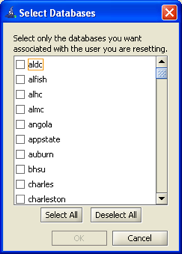
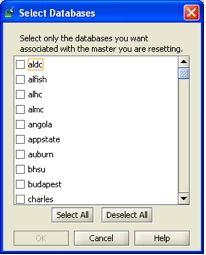
git-svn-id: https://svn.code.sf.net/p/specify/code/trunk/Specify@9712 ce9bf4bf-376f-1848-a496-a1c9fe3b1a39

diff --git a/help/SpecifyHelp/Security/Security_Wizard.html b/help/SpecifyHelp/Security/Security_Wizard.html
@@ -92,7 +92,7 @@ username and password, the Security Wizard will allow you to reset them.</p>
     <a name="reset_master" id="reset_master"></a>
     <p><u><strong>Reset the Master Username and Password</strong></u></p>
     <p>Click the <i><b>Reset your Master Username and Password</b></i> button to reset the Master credentials. A dialog will appear listing ALL the Specify databases available. It is important to note that this is a list of ALL the databases.</p>
-    <p align="center"><img src="../../images/securitywizard_4.png" width="183" height="255" /></p>
+    <p align="center"><img src="../../images/securitywizard_4.png"  /></p>
     <p align="center" class="imgcaption">Specify Database List</p>
     <blockquote>
       <p>1) Choose the database(s) that will be reset to use the new Master username and password.</p>
@@ -171,7 +171,7 @@ username and password, the Security Wizard will allow you to reset them.</p>
 
 <h3>Fix Master Permissions</h3>
 <p>A Specify Master must include  SELECT, INSERT, UPDATE,  DELETE and TABLE LOCK privileges in MySQL. The Security Wizard checks the Master priviledges at the same time that it tests the Master credentials. If the privileges are not set correctly the Security Wizard will alert you and offer the ability to fix them.</p>
-<p align="center"><img src="../../images/sw_privscreen.png" width="288" height="246" /></p>
+<p align="center"><img src="../../images/sw_privscreen.png"  /></p>
 <p align="center" class="imgcaption">Fix Master Priviledges</p>
 <blockquote>
   <p>&nbsp;</p>

diff --git a/help/SpecifyHelp/SchemaConfig/schema_config.html b/help/SpecifyHelp/SchemaConfig/schema_config.html
@@ -81,6 +81,9 @@
         easily do so, but are required to send the changes to the Specify project. If you are
         interested in translating Specify, please contact the Specify Project at <a href=
       "mailto:specify@ku.edu">specify@ku.edu</a>.</p>
+      <blockquote>
+        <p><em><strong>Note:</strong></em> The <em>Export, Import and Remove a Schema</em> buttons allow schema configurations to be shared with other Specify users. Importing a schema will replace your existing schema. Be sure that you are using a complete, valid Specify schema file when importing a schema. <strong>DO Not</strong> use the Schema Configuration tool to import third-party schemas. This is accomplished using the <a href="../QueryBuilder/third_party.html#schema_mapping">Schema Mapping Editor</a>.</p>
+      </blockquote>
       <p><br />
       </p>
       <p>
@@ -91,7 +94,7 @@
         the entire community, allowing all Collection Managers to have the exact same set-up for
         their collection data.    </p>
     </blockquote>
-    <p>&nbsp; </p>
+  <p>&nbsp; </p>
     <blockquote>
       <p align="center"><img src="../../images/schema_config_window.png" width="504" height="378" /></p>
       <p align="center" class="imgcaption">Schema Configuration Tool</p>
